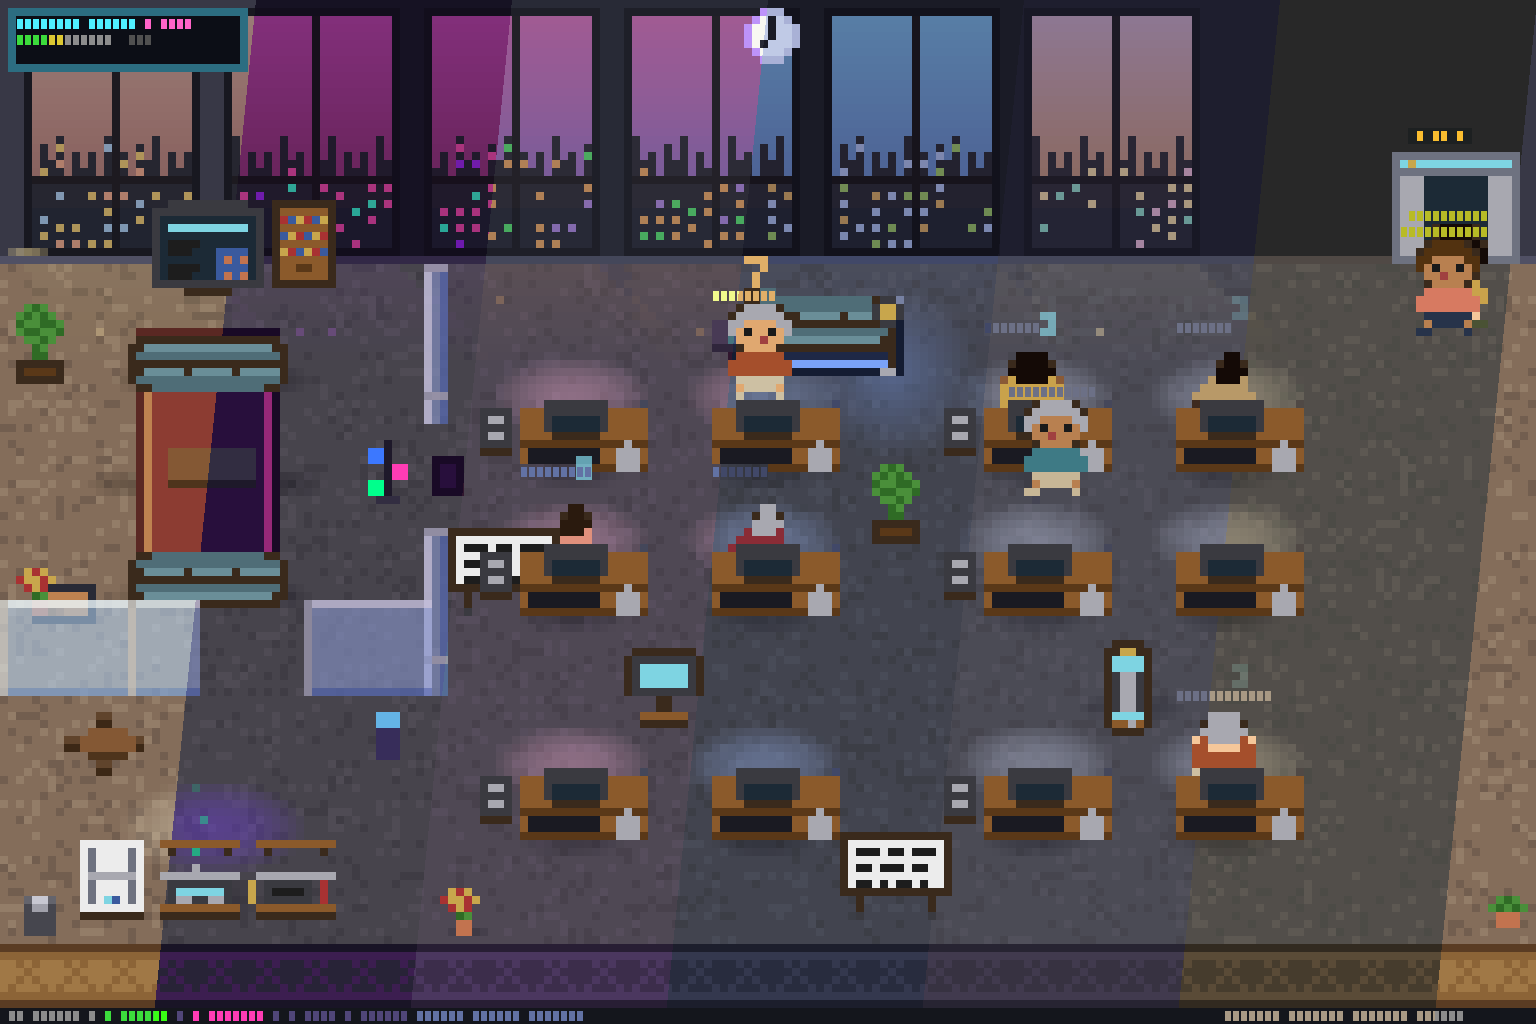
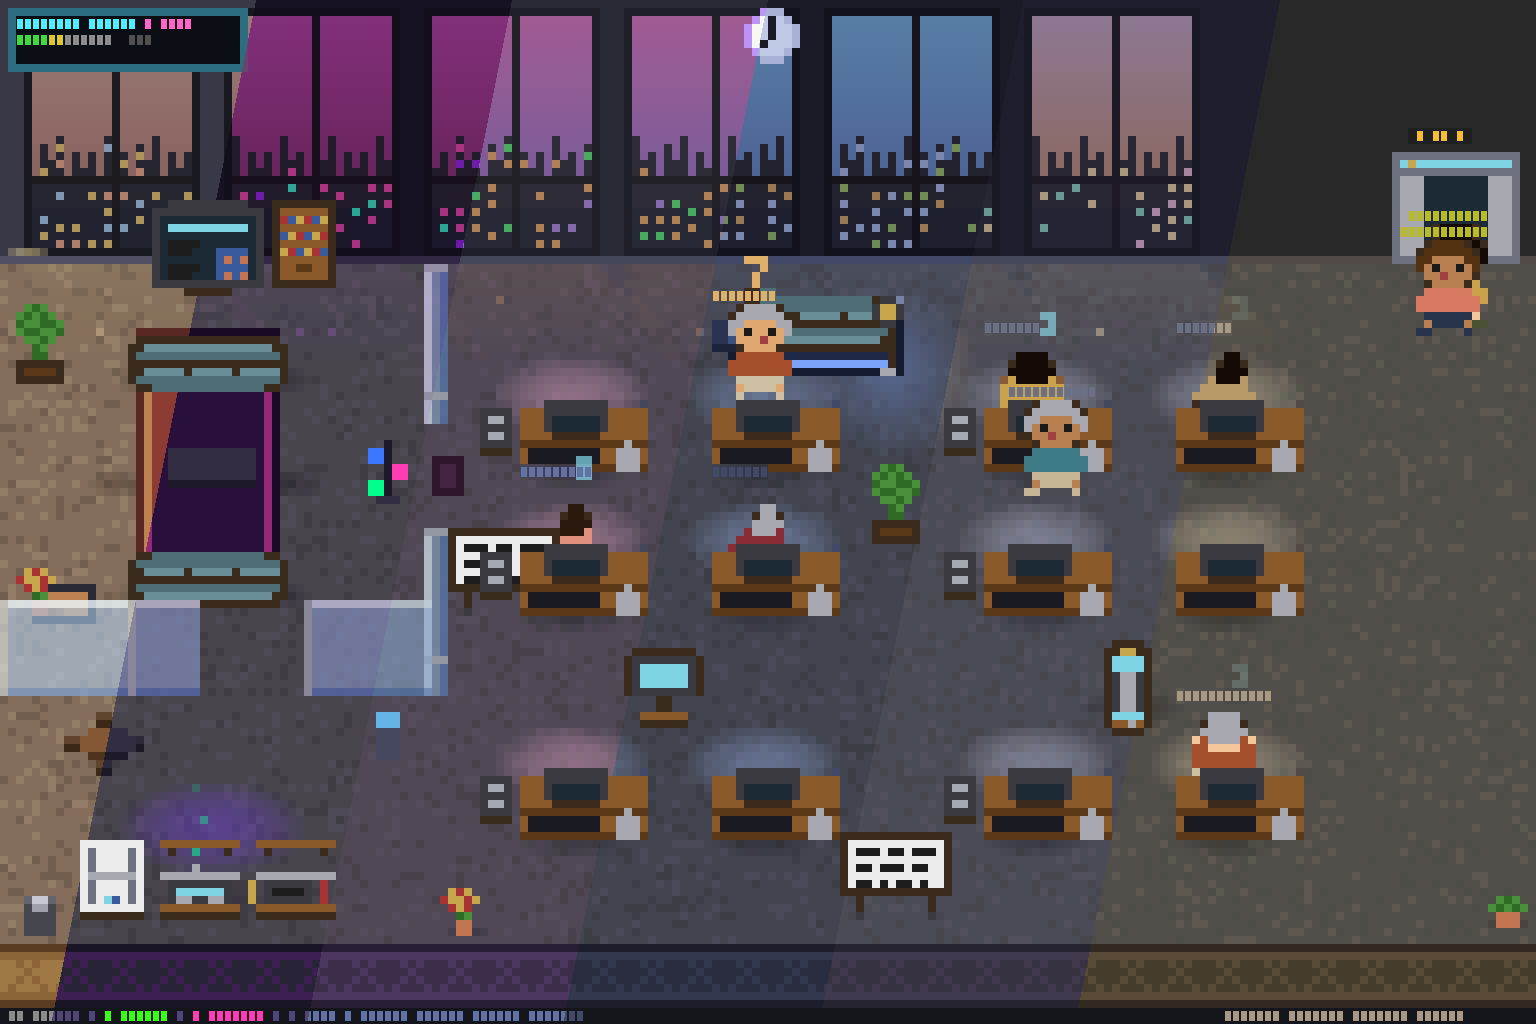
docs: codify image generation (just demo), CLI-agnostic README
- Add scripts/gen-docs-images.py + a `just demo` recipe — the single source of
  truth for docs/images (render params, crop quadrants, and the
  themes-composite diagonal angle) so the screenshots never drift.
- Regenerate docs/images via `just demo`; themes-composite diagonal steepened to
  slant -0.2 to match the original window light-beams.
- README: rephrase Claude-Code-specific wording to be CLI-agnostic now that
  Codex/Antigravity are also supported (Quick Start, Features "Multi-agent
  office", hook-safe, architecture diagram); drop the Desk-personalization row
  (feature removal tracked separately).

diff --git a/scripts/gen-docs-images.py b/scripts/gen-docs-images.py
@@ -1,0 +1,97 @@
+#!/usr/bin/env python3
+"""Regenerate every office image under docs/images/ from a release build.
+
+Single source of truth for the doc images — run via `just demo` whenever a
+change alters the office's look, so the README screenshots stay current and
+nobody has to re-guess the render parameters or the themes-composite diagonal
+angle.
+
+Everything derives from one 192x64 release `snapshot` render at a fixed dusk
+clock (deterministic layout + lighting):
+
+  docs/images/screenshot.png                        full office @2x
+  docs/images/gallery-{cubicle,meeting,pantry}.png  crop quadrants @3x
+  docs/images/themes-composite.png                  6 themes stitched along
+                                                    down-left DIAGONAL bands
+  docs/images/demo.gif                              15s @ 10fps animated
+
+`screenshot-real.png` is a live-agent capture and is NOT regenerated here.
+
+Requires the venv (Pillow) — see README "Visual verification".
+"""
+
+import subprocess
+import tempfile
+from pathlib import Path
+
+from PIL import Image, ImageDraw
+
+ROOT = Path(__file__).resolve().parent.parent
+SNAP = ROOT / "target/release/examples/snapshot"
+OUT = ROOT / "docs/images"
+
+COLS, ROWS = 192, 64  # -> 1536x1024 px
+HOUR, DAY = 19, 1  # fixed dusk clock = deterministic layout + lighting
+THEMES = ["normal", "cyberpunk", "dracula", "tokyo-night", "catppuccin", "gruvbox"]
+GIF_SECS, GIF_FPS = 15, 10
+# themes-composite diagonal: down-left, matching the window light-beams. dx/dy.
+SLANT = -0.20
+QUADRANTS = {  # same regions as scripts/crop-snapshot.py
+    "cubicle": (0.30, 0.00, 1.00, 0.55),
+    "meeting": (0.00, 0.00, 0.30, 0.55),
+    "pantry": (0.00, 0.49, 0.30, 1.00),
+}
+
+
+def render(out_path, theme, *extra):
+    subprocess.run(
+        [
+            str(SNAP), "--cols", str(COLS), "--rows", str(ROWS), "--theme", theme,
+            "--now-hour", str(HOUR), "--now-day", str(DAY), *extra, str(out_path),
+        ],
+        check=True,
+        stdout=subprocess.DEVNULL,  # suppress the text preview; gif progress is on stderr
+    )
+
+
+def main():
+    print("building release snapshot example ...")
+    subprocess.run(["cargo", "build", "--release", "--example", "snapshot"], cwd=ROOT, check=True)
+    tmp = Path(tempfile.mkdtemp())
+
+    # Base office render (normal theme) -> screenshot + gallery crops.
+    render(tmp / "office.png", "normal")
+    office = Image.open(tmp / "office.png").convert("RGB")
+    w, h = office.size
+
+    office.resize((w * 2, h * 2), Image.NEAREST).save(OUT / "screenshot.png")
+    for name, (x0, y0, x1, y1) in QUADRANTS.items():
+        crop = office.crop((int(w * x0), int(h * y0), int(w * x1), int(h * y1)))
+        crop.resize((crop.width * 3, crop.height * 3), Image.NEAREST).save(OUT / f"gallery-{name}.png")
+
+    # themes-composite: render each theme, then paint each one's slice through a
+    # diagonal mask that runs from its left boundary to the right edge. Painted
+    # left-to-right, so band i (between boundary i and i+1) ends up showing theme
+    # i, the leftmost stays theme 0, and the rightmost stays the last theme.
+    n = len(THEMES)
+    for i, theme in enumerate(THEMES):
+        render(tmp / f"th_{i}.png", theme)
+    comp = Image.open(tmp / "th_0.png").convert("RGB")
+    far = w + abs(SLANT) * h + 10  # extend past the right edge so nothing is left uncovered
+    for i in range(1, n):
+        im = Image.open(tmp / f"th_{i}.png").convert("RGB")
+        bx = i * w / n  # i-th boundary, x at the top row
+        poly = [(bx, 0), (far, 0), (far, h), (bx + SLANT * h, h)]
+        mask = Image.new("L", (w, h), 0)
+        ImageDraw.Draw(mask).polygon(poly, fill=255)
+        comp.paste(im, (0, 0), mask)
+    comp.save(OUT / "themes-composite.png")
+
+    # Animated demo.
+    render(OUT / "demo.gif", "normal", "--gif", "--gif-duration", str(GIF_SECS), "--gif-fps", str(GIF_FPS))
+
+    print(f"wrote screenshot, gallery-*, themes-composite, demo.gif -> {OUT}")
+
+
+if __name__ == "__main__":
+    main()

diff --git a/README.md b/README.md
@@ -52,7 +52,7 @@ pixtuoid install-hooks
 pixtuoid
 ```
 
-In another terminal, start a Claude Code session. A character walks in from the elevator within a second.
+In another terminal, start a supported coding agent (Claude Code, Codex, Antigravity, …). A character walks in from the elevator within a second.
 
 **Keyboard shortcuts:** `q` quit · `p` pause · `t` themes · `?` help · `↑↓/jk/PgUp/PgDn` floors · click to pin tooltip
 
@@ -89,7 +89,7 @@ cargo build --release
 
 | | Feature | Description |
 |---|---|---|
-| 🏢 | **Multi-agent office** | Each CC session gets a desk; overflow agents auto-fill new floors |
+| 🏢 | **Multi-agent office** | Each agent session gets a desk; overflow agents auto-fill new floors |
 | 🛗 | **Multi-floor office** | PageUp/PageDown/↑↓/jk to navigate floors with slide transition |
 | 🎭 | **Animated characters** | Typing, waiting (`?`), sleeping (z's), walking with A\*-routed pathfinding |
 | 💡 | **Per-tool monitor glow** | Edit = blue, Bash = orange, Read = cyan — scannable at a glance |
@@ -99,9 +99,7 @@ cargo build --release
 | 🏷 | **Furniture tooltips** | Hover any item — desks, sofas, plants, vending machine, printer — to see its name |
 | 🐾 | **Office pets** | A cat or dog (one per floor) roams desks, pantry, sofas; sleeps near idle agents. Click to pet — pixel-art hearts float up |
 | ☕ | **Coffee run** | Idle agents visit the pantry, carry a cup back to their desk. Cup stays while you work; taken on exit |
-| 💬 | **Pantry chitchat** | 2+ idle agents at the same waypoint trigger speech bubbles with dev-humor snippets |
-| 🪴 | **Desk personalization** | Plant (30min), photo frame (1hr) appear over time |
-| 🛡 | **Hook-safe** | The shim always exits 0 — a stuck visualizer can never block Claude Code |
+| 💬 | **Pantry chitchat** | 2+ idle agents at the same waypoint trigger speech bubbles with dev-humor snippets || 🛡 | **Hook-safe** | The shim always exits 0 — a stuck visualizer can never block your agent |
 
 ## Supported Tools
 
@@ -135,7 +133,7 @@ See **[docs/CONFIGURATION.md](docs/CONFIGURATION.md)** for the full key referenc
 <summary><strong>Architecture</strong></summary>
 
 ```
-CC tool call ──► CC fires hook ──► pixtuoid-hook (shim)
+agent tool call ──► agent fires hook ──► pixtuoid-hook (shim)
                                          │ JSON over Unix socket
                                          ▼
                                   /tmp/pixtuoid-{uid}.sock
@@ -156,7 +154,7 @@ Three Rust crates:
 |---|---|
 | **pixtuoid-core** | Headless library — no terminal deps. Source trait, reducer, pose, layout, sprites. |
 | **pixtuoid** | TUI binary — ratatui + crossterm + tokio. Half-block rendering + theme system. |
-| **pixtuoid-hook** | Tiny shim CC invokes from hooks. 200ms timeout, always exits 0. |
+| **pixtuoid-hook** | Tiny shim the agent CLI invokes from hooks. 200ms timeout, always exits 0. |
 
 </details>
 
